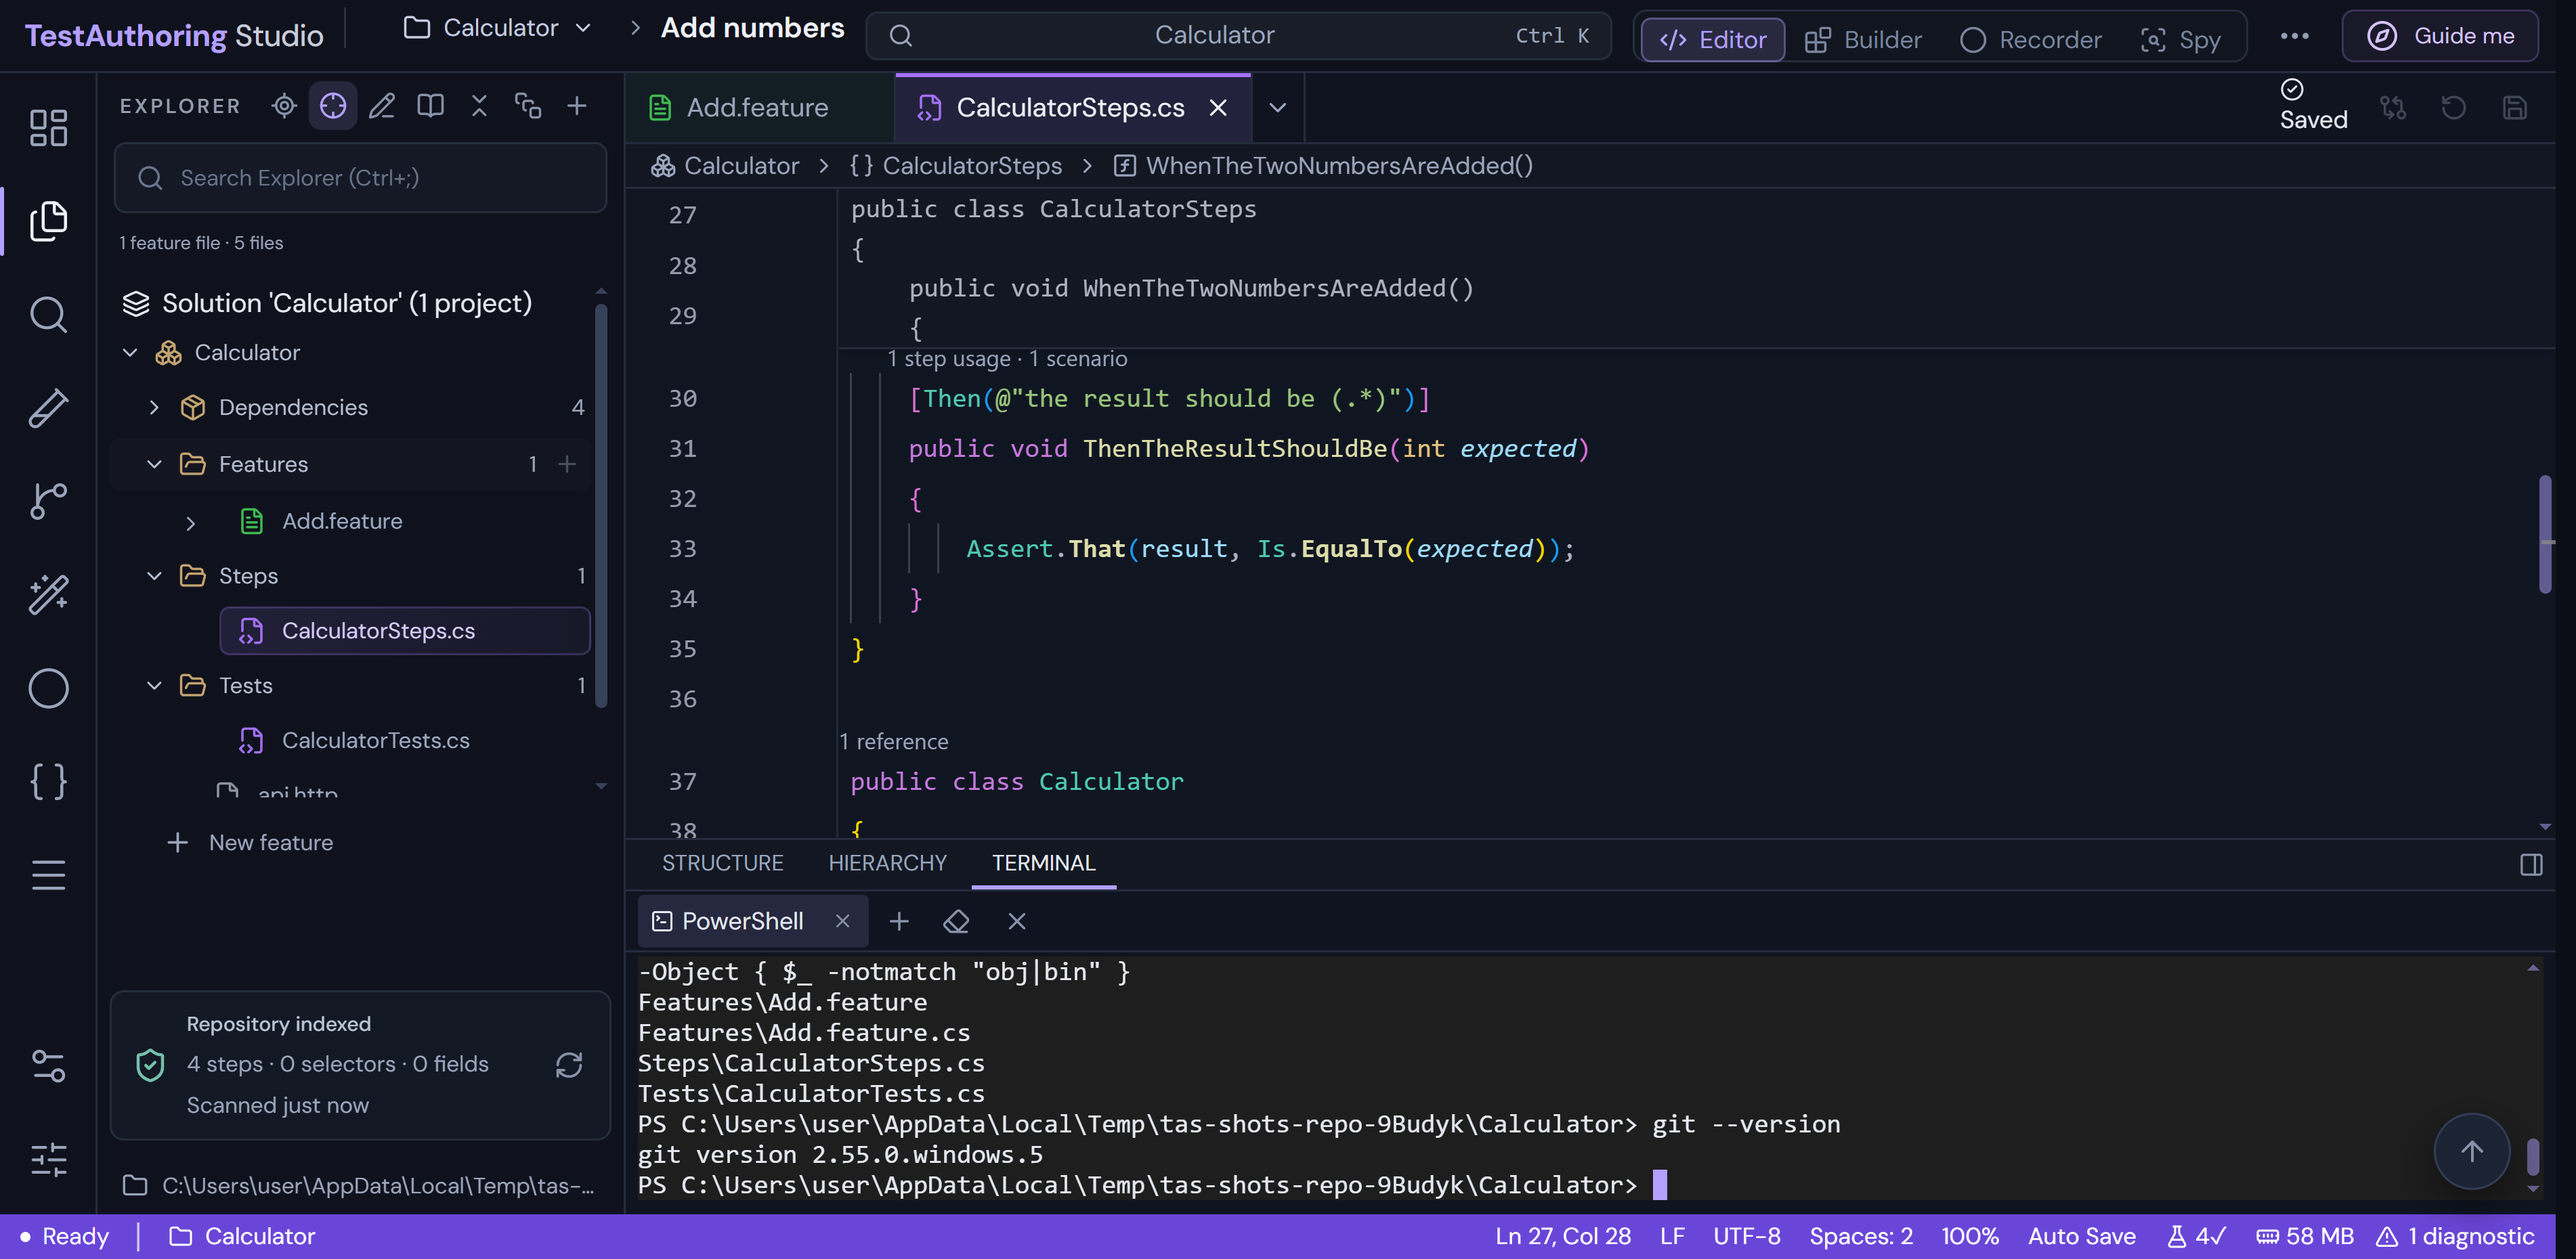
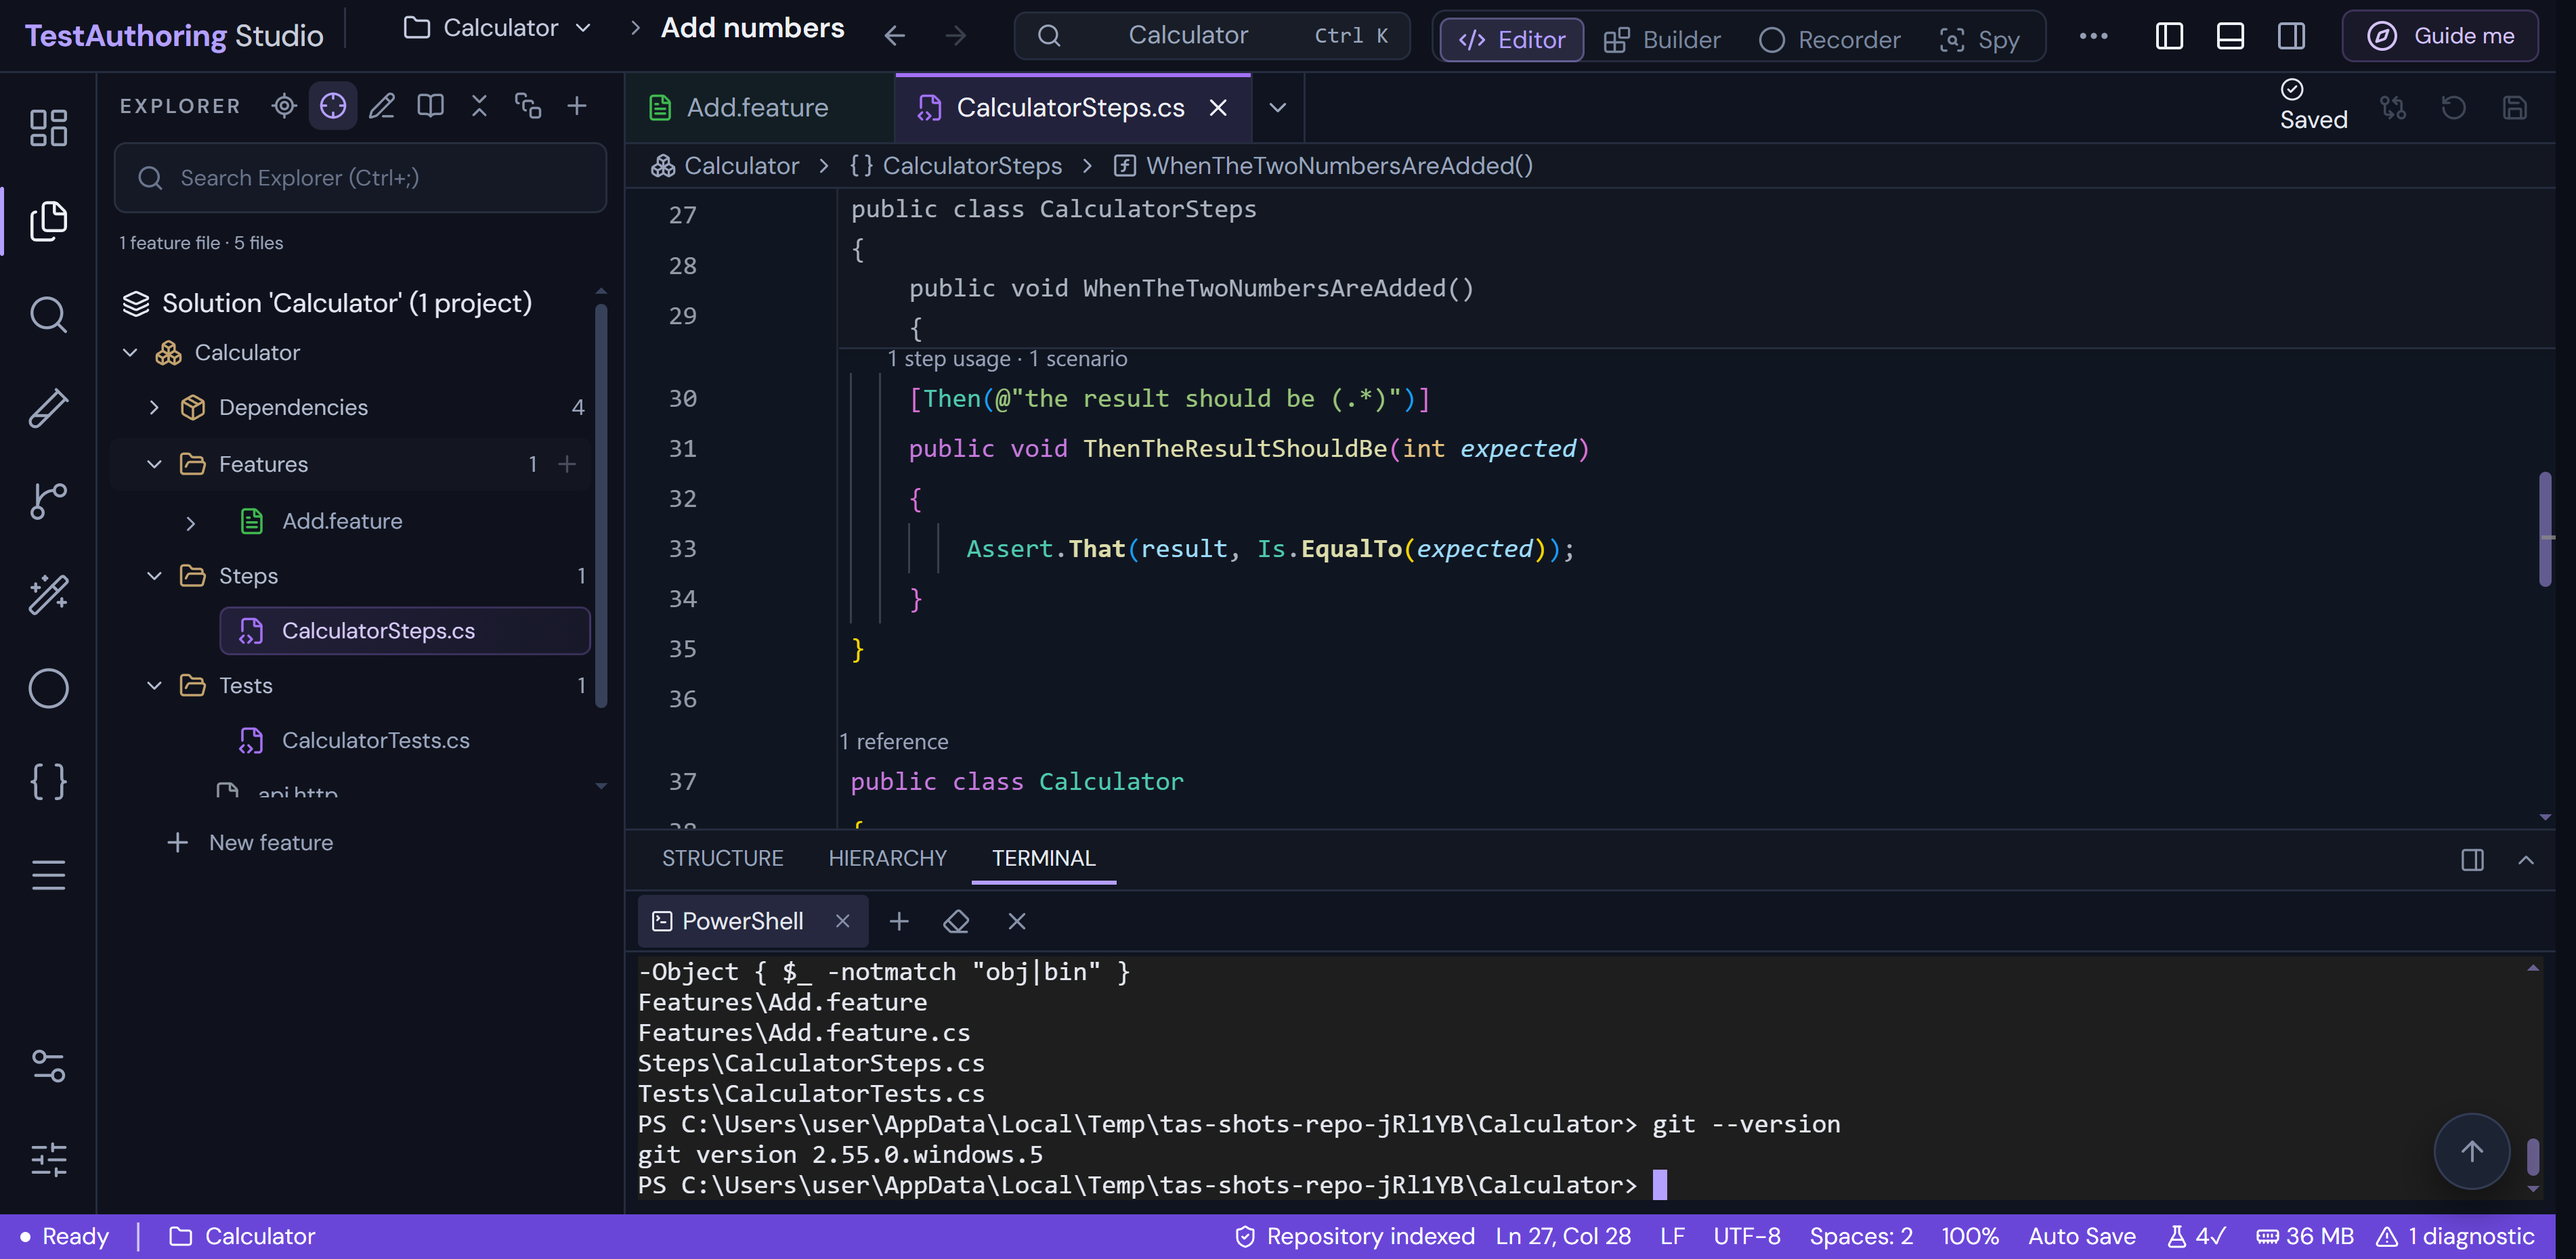
README: workbench screenshot and recaptures with the new GUI
A workbench shot (resizable panel, layout buttons and Back / Forward in the title bar, Git badge, index status in
the status bar) and every screenshot recaptured from the rebuilt desktop app; a VS Code-style row in the table.

diff --git a/test-authoring-desktop/tests/screenshots.spec.ts b/test-authoring-desktop/tests/screenshots.spec.ts
@@ -324,8 +324,26 @@ test('README screenshots: refactoring, analysis, Git and coverage', async () => 
   await page.reload();
   await expect(page.getByText('Repository indexed')).toBeVisible({ timeout: 60_000 });
   const explorer = page.getByRole('navigation');
+  /** Drags the panel's sash up, so the panel is taller (it is remembered until the sash is double-clicked). */
+  const growPanel = async (by = 120) => {
+    const sash = (await page.getByRole('separator', { name: 'Resize panel' }).boundingBox())!;
+    await page.mouse.move(sash.x + sash.width / 2, sash.y + 3);
+    await page.mouse.down();
+    await page.mouse.move(sash.x + sash.width / 2, sash.y - by, { steps: 5 });
+    await page.mouse.up();
+  };
   const openPricing = async () => { await explorer.getByRole('button', { name: 'Pricing.cs', exact: true }).first().click(); await expect(page.getByLabel('Source of Steps/Pricing.cs')).toBeVisible(); };
   await openPricing();
+
+  // 0. The workbench: Structure in a taller panel (dragged by its sash), layout controls and Back / Forward in the title
+  // bar, the Git badge on the activity bar, the index status in the status bar.
+  await editor().click();
+  await page.keyboard.press('Alt+7');
+  await expect(page.getByRole('list', { name: 'Structure of the file' }).getByRole('button').first()).toBeVisible({ timeout: 60_000 });
+  await growPanel();
+  await expect(page.locator('[data-badge="Git"]')).toBeVisible({ timeout: 30_000 });
+  await shot('workbench');
+  await page.getByRole('separator', { name: 'Resize panel' }).dblclick(); // back to the default size
 
   // 1. Settings editor: the category tree at Text Editor ▸ Minimap.
   await editor().click();
@@ -418,11 +436,12 @@ test('README screenshots: refactoring, analysis, Git and coverage', async () => 
   await log.getByRole('button', { name: 'Interactively Rebase from Here…' }).click();
   const rb = log.getByLabel('Interactive Rebase');
   await expect(rb.locator('.git-rebase-row')).toHaveCount(3);
-  // Actions without a message box, so the whole plan fits in the panel.
   await rb.getByLabel('Action for WIP').selectOption('fixup');
   await rb.getByRole('button', { name: 'Move Fix typo up' }).click();
   await rb.getByLabel('Action for Fix typo').selectOption('drop');
+  await growPanel(200);
   await shot('interactive-rebase');
+  await page.getByRole('separator', { name: 'Resize panel' }).dblclick();
   await rb.getByRole('button', { name: 'Cancel' }).click();
 
   // 8. Three-way merge editor on a conflict.

diff --git a/README.md b/README.md
@@ -21,6 +21,7 @@ machine; nothing is uploaded.
 | Projects | **Project Properties** | Property pages for a `.csproj` with effective values from the .NET SDK and `Directory.Build.props`; every change to a project file is a diff written only when you approve it. |
 | Editor | **VS Code settings** | A settings editor with a category tree, `settings.json` import / export and `@modified`; minimap with section headers, bracket pair guides, sticky scroll, rulers, word wrap, whitespace, semantic highlighting, inactive `#if` regions, format and organize usings on save. |
 | Workbench | **Layout** | Editor groups (split right or down, move, lock, maximize), floating editor windows, Zen Mode, a secondary sidebar, activity bar and panel positions. |
+| Workbench | **VS Code-style ease of use** | A resizable panel (drag its edge) with Maximize Panel Size, layout buttons and Back / Forward in the title bar, badges on the activity bar for Git changes and failed tests, index status in the status bar, double-click a tab to maximize the editor. See [GUI-QOL.md](GUI-QOL.md). |
 
 Every optional feature has a switch under **Settings ▸ Features**. Progress and details:
 [RIDER-VSCODE-FEATURES.md](RIDER-VSCODE-FEATURES.md), [VSCODE-20.md](VSCODE-20.md), [ADVANCED-20.md](ADVANCED-20.md),
@@ -30,6 +31,11 @@ Every optional feature has a switch under **Settings ▸ Features**. Progress an
 
 Captured from the Windows desktop build on a temporary copy of the Calculator sample (running-app captures, not
 mockups).
+
+**Workbench.** Structure in a panel made taller by dragging its edge; layout buttons and Back / Forward in the title
+bar; a badge with the pending Git changes on the activity bar; the index status in the status bar.
+
+![Workbench](docs/screenshots/workbench.png)
 
 **Change Signature.** Rename a parameter, remove an unused one and move another up; the new signature updates as you
 go, and call sites in other files come back as diffs.
